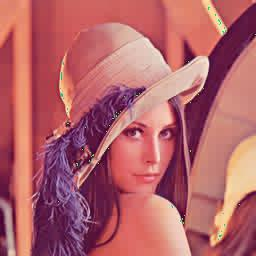
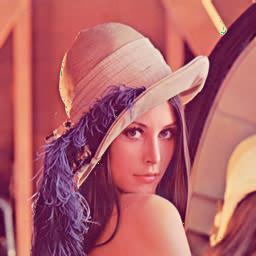
lab1 entrega

diff --git a/dct_encoding.py b/dct_encoding.py
@@ -1,55 +1,50 @@
 import os
 from pathlib import Path
 import numpy as np
-import matplotlib.pyplot as plt
-import scipy
+import scipy.fftpack as fftpack
 import imageio
-
-from numpy import pi
-from numpy import sin
 from numpy import zeros
 from numpy import r_
-from scipy import signal
-from scipy import misc # pip install Pillow
-import matplotlib.pylab as pylab
-pylab.rcParams['figure.figsize'] = (20.0, 7.0)
 class iodir:
     inp : str
     outp : str
     def __init__(self,inp,outp):
         self.inp=inp
         self.outp=outp
-
+#2D dct
 def dct2(a):
-    return scipy.fftpack.dct( scipy.fftpack.dct( a, axis=0, norm='ortho' ), axis=1, norm='ortho' )
-
+    return fftpack.dct( fftpack.dct( a, axis=0, norm='ortho' ), axis=1, norm='ortho' )
+#2D idct
 def idct2(a):
-    return scipy.fftpack.idct( scipy.fftpack.idct( a, axis=0 , norm='ortho'), axis=1 , norm='ortho')
+    return fftpack.idct( fftpack.idct( a, axis=0 , norm='ortho'), axis=1 , norm='ortho')
 
 def setDir():
     name = "Lenna.jpg"
-    input_path= Path.cwd()
+    input_path= Path.cwd()#get current directory
+    #for each file in folder get input path (Lenna.jpg)
     file_path= [ subp for subp in input_path.iterdir() if subp.match(name)]
     file_path.sort()
-    output_path =  Path.cwd() / "Results"
-    output_path.mkdir(parents=True, exist_ok=True)
+    output_path =  Path.cwd() / "Results"#set output folder path 
+    output_path.mkdir(parents=True, exist_ok=True)# create it 
     return iodir(str(file_path[0].name),output_path)
+
+
+def dct(dct_thresh,imsize):
+    dct = np.zeros(imsize)
+    # Do 8x8 DCT on image 
+    for i in r_[:imsize[0]:8]:
+        for j in r_[:imsize[1]:8]:
+            #for 8x8 block we apply dct
+            dct[i:(i+8),j:(j+8)] = dct2( im[i:(i+8),j:(j+8)] )
+    return  dct 
 
 def idct(dct_thresh,imsize):
     im_dct = np.zeros(imsize)
     for i in r_[:imsize[0]:8]:
         for j in r_[:imsize[1]:8]:
+            #for 8x8 block we apply idct
             im_dct[i:(i+8),j:(j+8)] = idct2( dct_thresh[i:(i+8),j:(j+8)] )
     return im_dct 
-
-def dct(dct_thresh,imsize):
-    dct = np.zeros(imsize)
-    # Do 8x8 DCT on image (in-place)
-    for i in r_[:imsize[0]:8]:
-        for j in r_[:imsize[1]:8]:
-            dct[i:(i+8),j:(j+8)] = dct2( im[i:(i+8),j:(j+8)] )
-    return  dct 
-
 
 if __name__ == "__main__": 
     dyr=setDir()
@@ -57,15 +52,11 @@ if __name__ == "__main__":
     imsize = im.shape
     count=0
     dct = dct(im, imsize)
-    print("Enter a threshold between 0 and 1 .\n 0 to avoid thresholding \n Example: 0.005-0.012-0.1")
-    thresh = input()
+    thresh = input("Enter a threshold between 0 and 1 .\n 0 to avoid thresholding \n Example: 0.005-0.012-0.1\n")
     while not thresh ==  '-1':
-        dct_thresh = dct * (abs(dct) > (float(thresh)*np.max(dct)))
-        percent_nonzeros = np.sum( dct_thresh != 0.0 ) / (imsize[0]*imsize[1]*1.0)
-        print("Keeping {:.2f}% of the {:} DCT coefficients".format(percent_nonzeros*100.0, len(dct)))
+        dct_thresh = dct * (abs(dct) > (float(thresh)*np.max(dct)))#keep dct coefficients bigger than thresh*np.max(dct)
         im_dct = idct(dct_thresh,imsize)
-        output = str(dyr.outp / "Lenna_dct{:}.jpg".format(count))
-        imageio.imwrite(output, np.uint8(im_dct))
+        output = str(dyr.outp / "Lenna_dct{:}.jpg".format(count))#set output file name
+        imageio.imwrite(output, np.uint8(im_dct))#save image
         count+=1
-        print("Enter a threshold between 0 and 1 to decide the number of dct coefficients we will keep. \n Enter -1 to exit")
-        thresh = input()
+        thresh = input("Enter a threshold between 0 and 1 to decide the number of dct coefficients we will keep. \n Enter -1 to exit\n")

diff --git a/resize.py b/resize.py
@@ -1,5 +1,7 @@
 from pathlib import Path
 import os
+
+#iodir: input and output directory class
 class iodir:
     inp : str
     outp : str
@@ -9,24 +11,26 @@ class iodir:
 
 def setDir():
     name = "Lenna.jpg"
-    input_path= Path.cwd()
+    input_path= Path.cwd()#get current directory
+    #for each file in folder get input path (Lenna.jpg)
     file_path= [ subp for subp in input_path.iterdir() if subp.match(name)]
     file_path.sort()
-    output_path =  Path.cwd() / "Results"
-    output_path.mkdir(parents=True, exist_ok=True)
+    output_path =  Path.cwd() / "Results"#set output folder path 
+    output_path.mkdir(parents=True, exist_ok=True)# create it 
     return iodir(str(file_path[0].name),output_path)
 
 if __name__ == "__main__": 
-    dyr=setDir()
+    dyr=setDir()#set directories
     count=0
-    print("Enter compress ratio without %:")
-    aux = input()
-    while not aux =='c':
-        x = 100- int(aux)
-        output = str(dyr.outp / "Lenna_resize{:}.jpg".format(count))
-        command = f"ffmpeg -i {dyr.inp} -vf scale=iw*.{x}:ih*.{x} {output}"
-        os.system(command)
-        print("Enter compress ratio without %:")
-        print("Press c to exit")
-        aux = str(input())
+    aux = input("Enter compress ratio without %:")
+    while not aux == 'c':
+        if aux == '0':
+            print("with this compress ratio you will not apply resizing")
+        else:
+            x = 100 - int(aux)#Compression ratio of 25% == 0.75 * original size
+            output = str(dyr.outp / "Lenna_resize{:}.jpg".format(count))#set output image name
+            command = f"ffmpeg -i {dyr.inp} -vf scale=iw*.{x}:ih*.{x} {output}"#ffmpeg command
+            os.system(command)
+            
+        aux = input("Enter compress ratio without %\nPress c to exit:")
         count+=1

diff --git a/rgb_yuv.py b/rgb_yuv.py
@@ -1,24 +1,25 @@
-def _ycc(r, g, b): # in (0,255) range
-    y = round(.299*r + .587*g + .114*b)
-    cb = round(128 -.168736*r -.331364*g + .5*b)
-    cr = round(128 +.5*r - .418688*g - .081312*b)
+#rgb to yuv
+def _yuv(r, g, b): # in (0,255) range
+    y = .257*r + .504*g + .098*b + 16
+    cb = 128.0 -.148*r -.291*g + .439*b
+    cr = 128.0 +.439*r - .368*g - .071*b
     return y, cb, cr
-
+#yuv to rgb
 def _rgb(y, cb, cr):
-    r = int(y + 1.402 * (cr-128))
-    g = int(y - .34414 * (cb-128) -  .71414 * (cr-128))
-    b = int(y + 1.772 * (cb-128))
+    r = 1.164*(y-16.0) + 1.596 * (cr-128)
+    g = 1.164*(y-16.0)- .813 * (cr-128) -  .391 * (cb-128)
+    b = 1.164*(y-16.0) + 2.018 * (cb-128)
     return r, g, b
 
     
 if __name__ == "__main__": 
-    print('[a] RGB to YcrCb'); print('[b] YcrCb to RGB');print('[c] Exit')
+    print('[a] RGB to YcrCb\n[b] YcrCb to RGB\n[c] Exit')
     x = str(input())
     while not x =='c':
         if x=='a':
             inp = list(map(int, input("Enter the RGB color you want to convert: ").split()))
             print("RGB: ", inp)
-            outp = _ycc(inp[0],inp[1],inp[2])
+            outp = _yuv(inp[0],inp[1],inp[2])
             print("YCrCb: ", outp)
         elif x=='b':
             inp = list(map(int, input("Enter the YCrCb color you want to convert: ").split()))
@@ -28,5 +29,5 @@ if __name__ == "__main__":
         else:
             print("error")
             pass
-        print('[a] RGB to YcrCb'); print('[b] YcrCb to RGB');print('[c] Exit')
+        print('[a] RGB to YcrCb\n[b] YcrCb to RGB\n[c] Exit')
         x = str(input())

diff --git a/run_length_encoding.py b/run_length_encoding.py
@@ -1,29 +1,24 @@
 from collections import OrderedDict 
+
 def runLengthEncoding(input): 
   
-    # Generate ordered dictionary of all lower 
-    # case alphabets, its output will be  
-    # dict = {'w':0, 'a':0, 'd':0, 'e':0, 'x':0} 
+    # Generate ordered dictionary 
     dict=OrderedDict.fromkeys(input, 0) 
   
-    # Now iterate through input string to calculate  
-    # frequency of each character, its output will be  
-    # dict = {'w':4,'a':3,'d':1,'e':1,'x':6} 
+    # Iterate through input to calculate  
+    # frequency of each character
     for ch in input: 
         dict[ch] += 1
   
     # now iterate through dictionary to make  
-    # output string from (key,value) pairs 
+    # output as a set of (key,value) pairs 
     output = '' 
     for key,value in dict.items(): 
          output = output + key + str(value) 
     return output 
    
-# Driver function 
 if __name__ == "__main__": 
-    print('Enter the sequence of bits to encode:')
-    x = str(input())
+    x = str(input("Enter the sequence of bits to encode:"))#get sequence
     while not x =='c':
-        print ('The resulting encoded sequence is: ' + runLengthEncoding(x)) 
-        print('Enter the sequence of bits to encode or press c to exit')
-        x = str(input())
+        print ('The resulting encoded sequence is: ' + runLengthEncoding(x)) #apply run_length_encoding
+        x = str(input("Enter the sequence of bits to encode\n Press c to exit\n"))

diff --git a/greyscale.py b/greyscale.py
@@ -1,5 +1,7 @@
 from pathlib import Path
 import os
+
+#iodir: input and output directory class
 class iodir:
     inp : str
     outp : str
@@ -9,16 +11,20 @@ class iodir:
 
 def setDir():
     name = "Lenna.jpg"
-    input_path= Path.cwd()
+    input_path= Path.cwd()#get current directory
+    #for each file in folder get input path (Lenna.jpg)
     file_path= [ subp for subp in input_path.iterdir() if subp.match(name)]
     file_path.sort()
-    output_path =  Path.cwd() / "Results"
-    output_path.mkdir(parents=True, exist_ok=True)
+    output_path =  Path.cwd() / "Results"#set output folder path 
+    output_path.mkdir(parents=True, exist_ok=True)# create it 
     return iodir(str(file_path[0].name),output_path)
 
 if __name__ == "__main__": 
     dyr=setDir()
-    output = str(dyr.outp / "Lenna_greyscale.jpg")
-    command = f"ffmpeg -i {dyr.inp}  -pix_fmt yuvj422p -vf hue=s=0 {output}"
+    output = str(dyr.outp / "Lenna_greyscale.jpg")#set output image name
+    #ffmpeg command
+    # -pix_fmt yuvj420 to apply 4:2:0 chroma subsample
+    # -vf hue=s=0 to desaturate or -vf format=gray to grayscale.
+    command = f"ffmpeg -i {dyr.inp}  -pix_fmt yuvj420p -vf format=gray   {output}"
     os.system(command)
 
